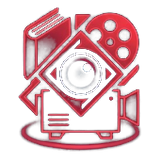
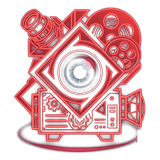
Fix Films tab picto with the correct camera artwork
Replace icon-films.png with the intended movie-camera picto (blue eye lens,
film reels, projector body), sparkle watermark and background removed.
Cache-bust the img (?v=2) and bump SW cache to v32.

diff --git a/index.html b/index.html
@@ -67,7 +67,7 @@
         <span class="tab-icon"><img class="tab-ico-img" src="icon-animes.png?v=1" alt="" /></span>Animés
       </button>
       <button type="button" class="category-tab" data-category="films">
-        <span class="tab-icon"><img class="tab-ico-img" src="icon-films.png?v=1" alt="" /></span>Films
+        <span class="tab-icon"><img class="tab-ico-img" src="icon-films.png?v=2" alt="" /></span>Films
       </button>
       <button type="button" class="category-tab" data-category="manga">
         <span class="tab-icon"><img class="tab-ico-img" src="icon-mangas.png?v=1" alt="" /></span>Mangas/Scans<span class="tab-soon">Bientôt</span>

diff --git a/sw.js b/sw.js
@@ -1,6 +1,6 @@
 // Incrémenter ce numéro à chaque changement du code de l'app force une
 // invalidation propre de l'ancien cache (voir activate ci-dessous).
-const CACHE_NAME = "suivi-shell-v31";
+const CACHE_NAME = "suivi-shell-v32";
 const APP_SHELL = [
   "./",
   "./index.html",
